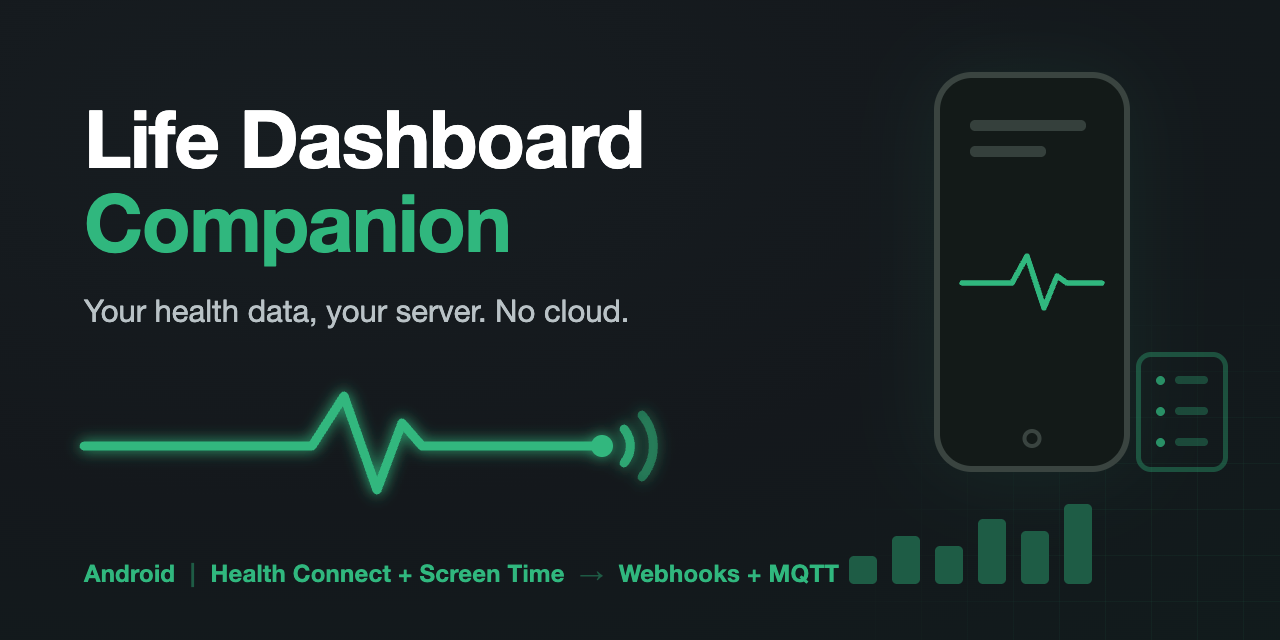
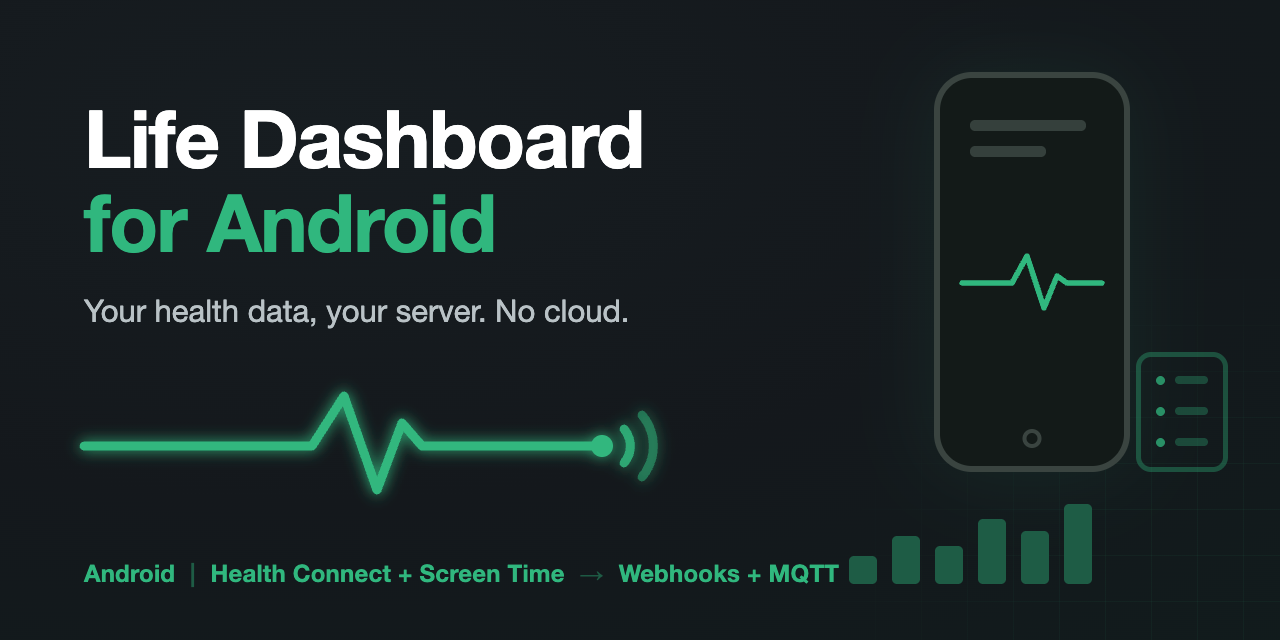
docs: The social preview says Life Dashboard for Android (#245)

Changed region(s): [[0.0625, 0.2812, 0.4062, 0.4375]]

diff --git a/docs/brand/banner.html b/docs/brand/banner.html
@@ -71,7 +71,7 @@
   <div class="grid"></div>
 
   <div class="text">
-    <h1>Life Dashboard<span class="accent">Companion</span></h1>
+    <h1>Life Dashboard<span class="accent">for Android</span></h1>
     <div class="tagline">Your health data, your server. No cloud.</div>
   </div>
 
